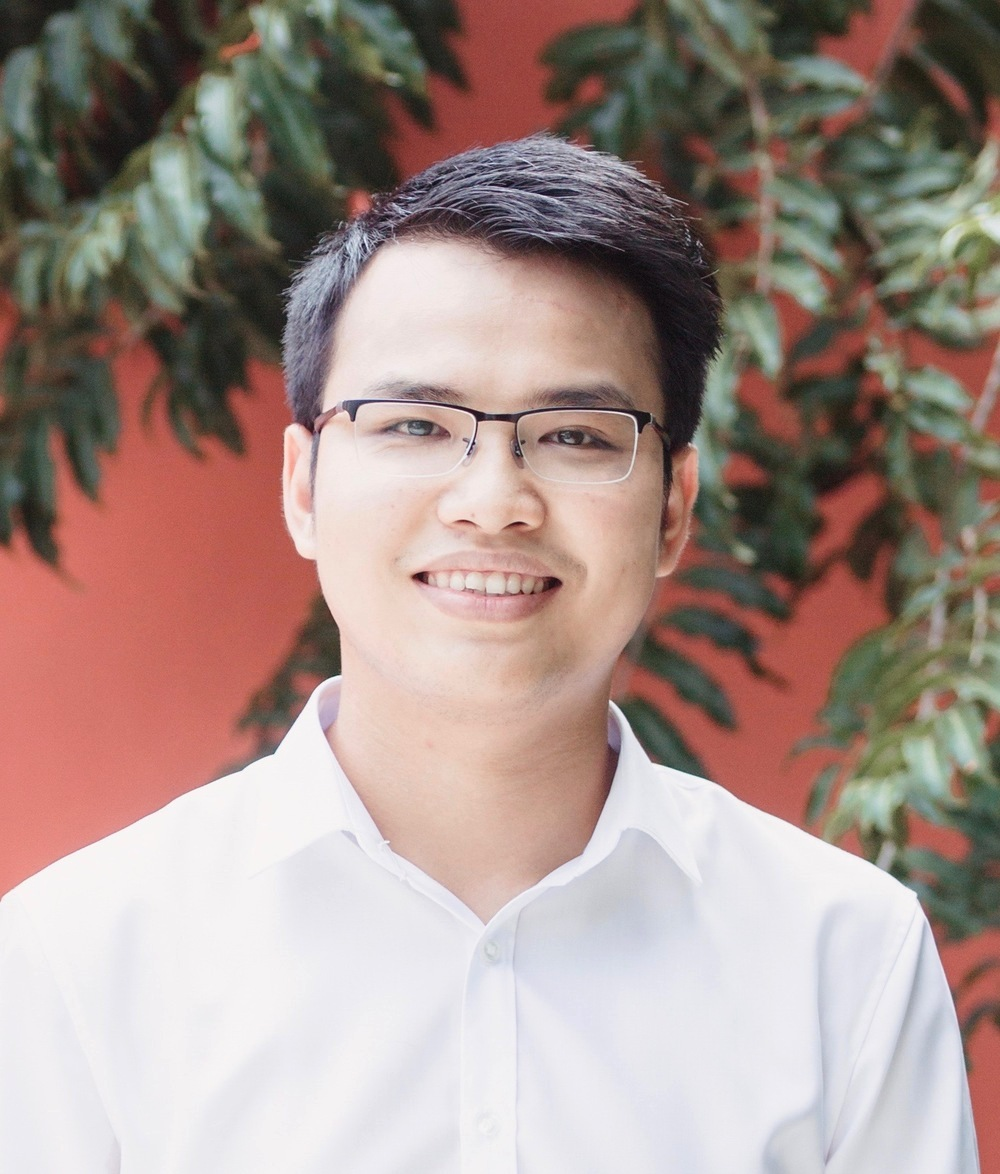
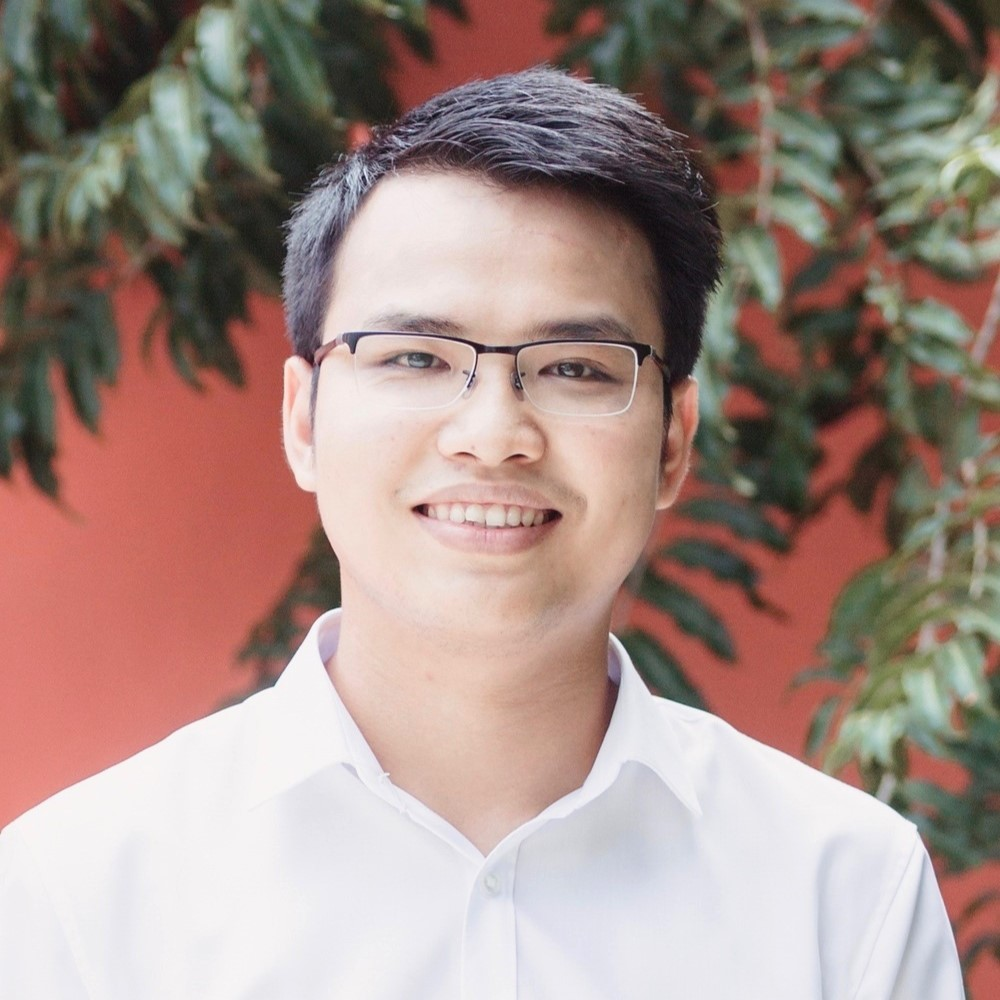
Minor June update

diff --git a/_sass/_variables.scss b/_sass/_variables.scss
@@ -6,7 +6,7 @@
 // Colors
 $red-color: #ff3636 !default;
 $red-color-dark: #b71c1c !default;
-$orange-color: #f29105 !default;
+$orange-color: #ff6c0c !default;
 $blue-color: #0076df !default;
 $blue-color-dark: #00369f !default;
 $cyan-color: #2698ba !default;

diff --git a/_pages/about.md b/_pages/about.md
@@ -7,8 +7,12 @@ subtitle: Nguyen Ho Minh Duy
 profile:
   align: right
   image: prof_pic.jpg
-  image_circular: false # crops the image to make it circular
-
+  image_circular: true # crops the image to make it circular
+  more_info: >
+    <p>Universitätsstraße 32</p>
+    <p>70569 Stuttgart, Germany</p>
+    <p>Room: 2.321</p>
+ 
 news: true # includes a list of news items
 selected_papers: true # includes a list of papers marked as "selected={true}"
 social: true # includes social icons at the bottom of the page
